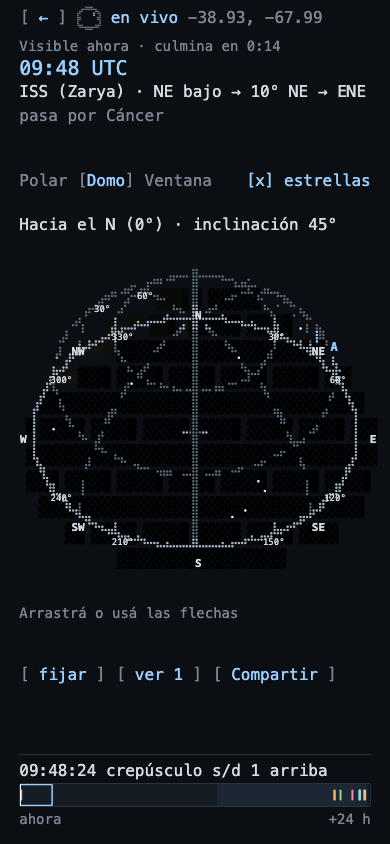
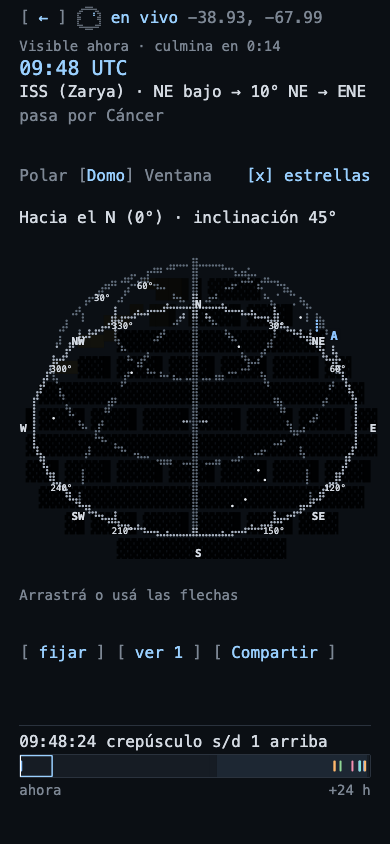
R133: the column with a bowl packs at the start, so the live page's spare room at 390 x 844 stays under the last row and no longer stretches the empty picker slot into a 1 px block (rhythm.spec, FR-FLOW-10); the r32 live captures re-shot

diff --git a/src/ui/components/sky/SkyViewLayout.module.css b/src/ui/components/sky/SkyViewLayout.module.css
@@ -114,6 +114,13 @@
   min-height: auto;
 }
 
+/* The bowl's box is shorter than the square, so a page that gives the column a height (`fill`, the live page at
+   390 × 844) leaves it room over: it stays under the last row rather than stretching every auto row, which would
+   draw the empty picker slot (1 px) and put a fraction on each FR-FLOW-10 gap. */
+.layout[data-shape='column']:has(.drawing [data-bowl='true']) {
+  align-content: start;
+}
+
 /* --- The rail: the box at the left, the rail at the right, the readout on the box's corner, the hint under the box
    at its width, `action` and `foot` at the rail's foot. The list is the row that gives, scrolling inside. --- */
 .layout[data-shape='rail'] {
